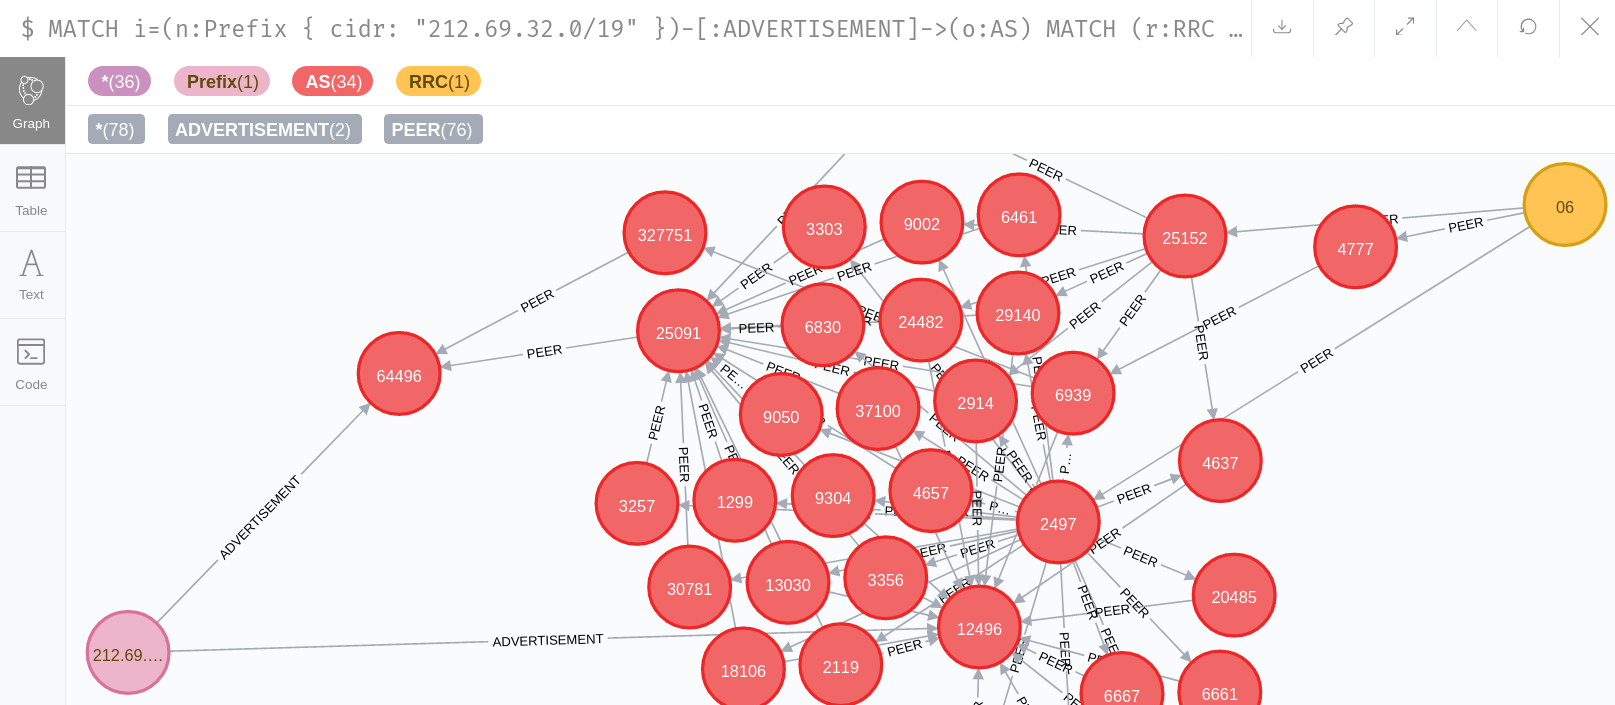
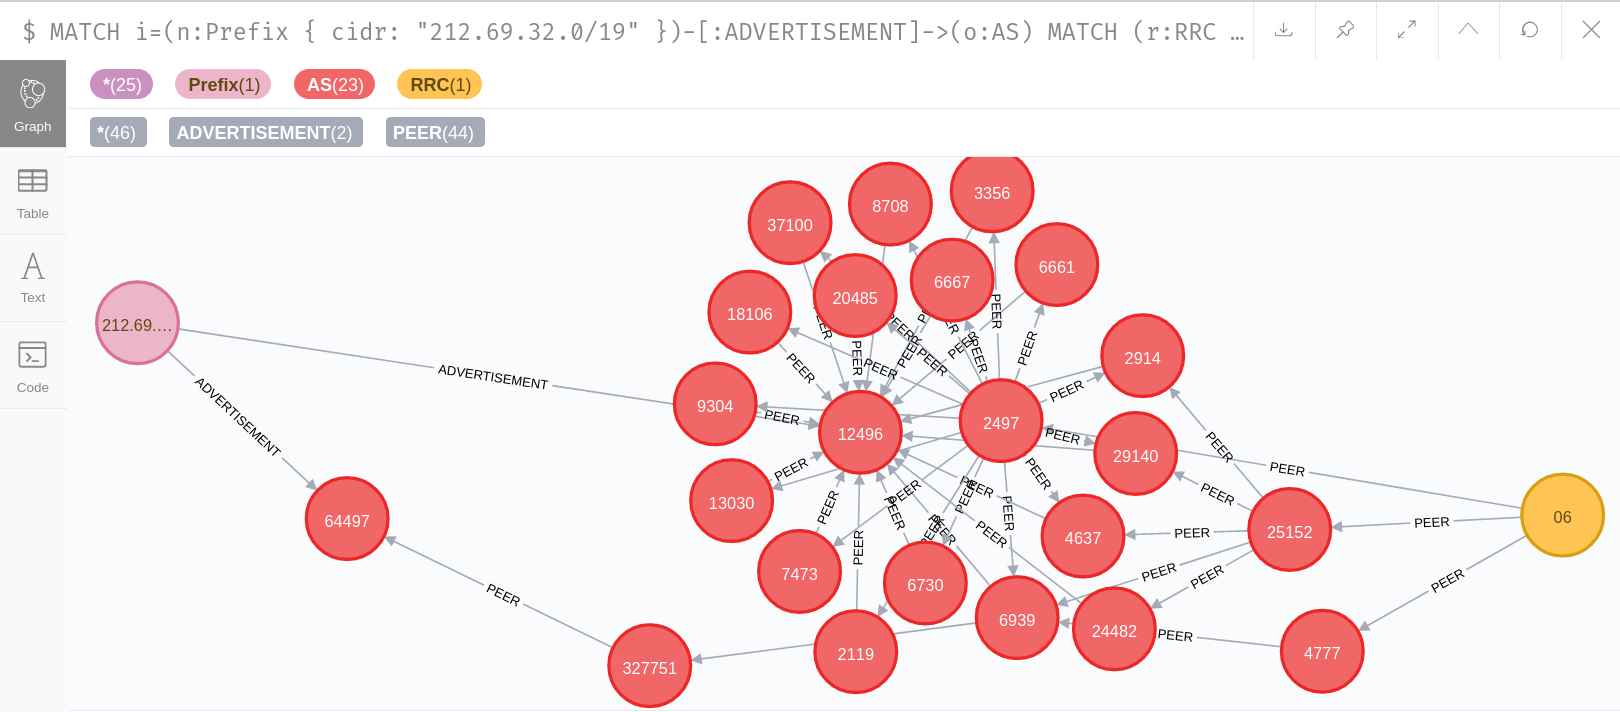
someone is being naughty and using AS64496

diff --git a/README.md b/README.md
@@ -212,7 +212,7 @@ Here are some example queries you can try to explore the data with by typing the
 
 If you double click on the resulting node, it will expand to show its relationships to other nodes.
 
-Note that CIDR is a string match and not an IP address match.  If you want to look for your own IP and its prefix on the Internet go to https://bgp.he.net/ to find out what you are being 'announced' as and use that to match against.
+Note that CIDR is a string match and not an IP address match.  If you want to look for your own IP and its prefix (both IPv4 and IPv6 can be used here) on the Internet go to https://bgp.he.net/ to find out what you are being 'announced' as and use that to match against.
 
 ## Peerings for 212.69.32.0/19
 
@@ -288,7 +288,7 @@ We expect to find none, but of course this is the real world and there are aroun
 
 If a [prefix is hijacked](https://en.wikipedia.org/wiki/BGP_hijacking) we could expect for one type of attack/configuration-error more than one AS number for a given prefix to exist.
 
-We can simulate this by adding the nodes and relationships to set up [AS64496](https://tools.ietf.org/html/rfc5398) to start to advertising 212.69.32.0/19.  Firstly we need to find another AS to set up a peering relationship with that has prefixes seen by `rrc06` (lets pick South Africa as it is far from both Europe and Japan, the latter where `rrc06` is located):
+We can simulate this by adding the nodes and relationships to set up [AS64497](https://tools.ietf.org/html/rfc5398) to start to advertising 212.69.32.0/19.  Firstly we need to find another AS to set up a peering relationship with that has prefixes seen by `rrc06` (lets pick South Africa as it is far from both Europe and Japan, the latter where `rrc06` is located):
 
     MATCH (n:Prefix { cidr: "212.69.32.0/19" })
     MATCH (:Prefix { version: n.version })-[:ADVERTISEMENT]->(a:AS { tld: 'ZA' })
@@ -301,13 +301,13 @@ We can simulate this by adding the nodes and relationships to set up [AS64496](h
 When I ran the above I got AS327751 so lets use it:
 
     MATCH (n:Prefix { cidr: "212.69.32.0/19" })
-    MATCH (o:AS { num: 64496 })
+    MATCH (o:AS { num: 64497 })
     MATCH (a:AS { num: 327751 })
     CREATE
       x=(n)-[:ADVERTISEMENT]->(o),
       y=(o)<-[:PEER { version: n.version }]-(a)
     RETURN x, y;
 
-We can investigate how this could impact the routing table of `rrc06` to 212.69.32.0/19 by using our earlier query (the one using `allShortestPaths()`).  You should see `212.69.32.0/19` now advertises through two different ASs and our hijacker operating AS64496 can steal the portion of the traffic destined for that prefix and traverses the path to it.
+We can investigate how this could impact the routing table of `rrc06` to 212.69.32.0/19 by using our earlier query (the one using `allShortestPaths()`).  You should see `212.69.32.0/19` now advertises through two different ASs and our hijacker operating AS64497 can steal the portion of the traffic destined for that prefix and traverses the path to it.
 
 ![Graph showing two advertisements for 212.69.32.0/19](images/hijack.png "What a BGP Hijack Might Look Like")
